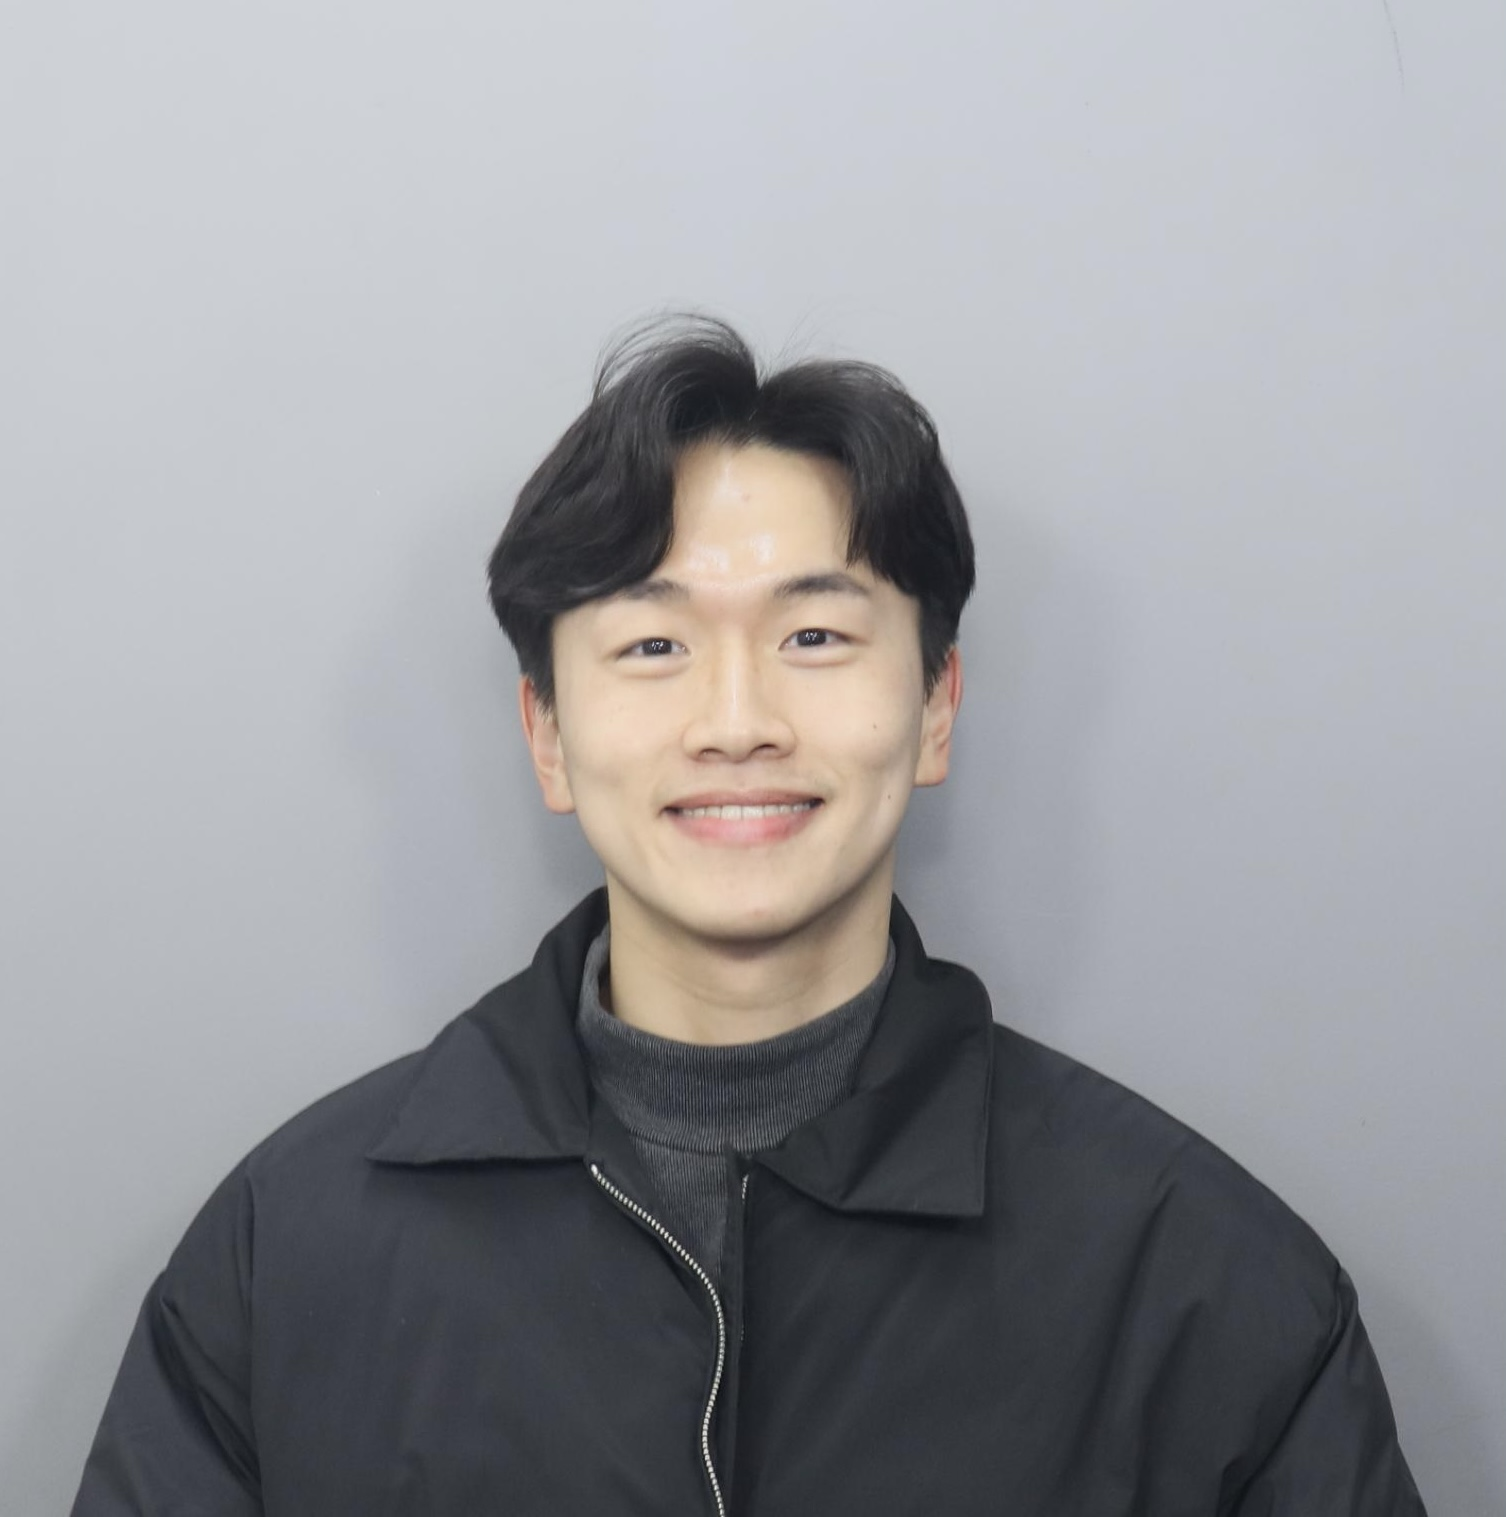
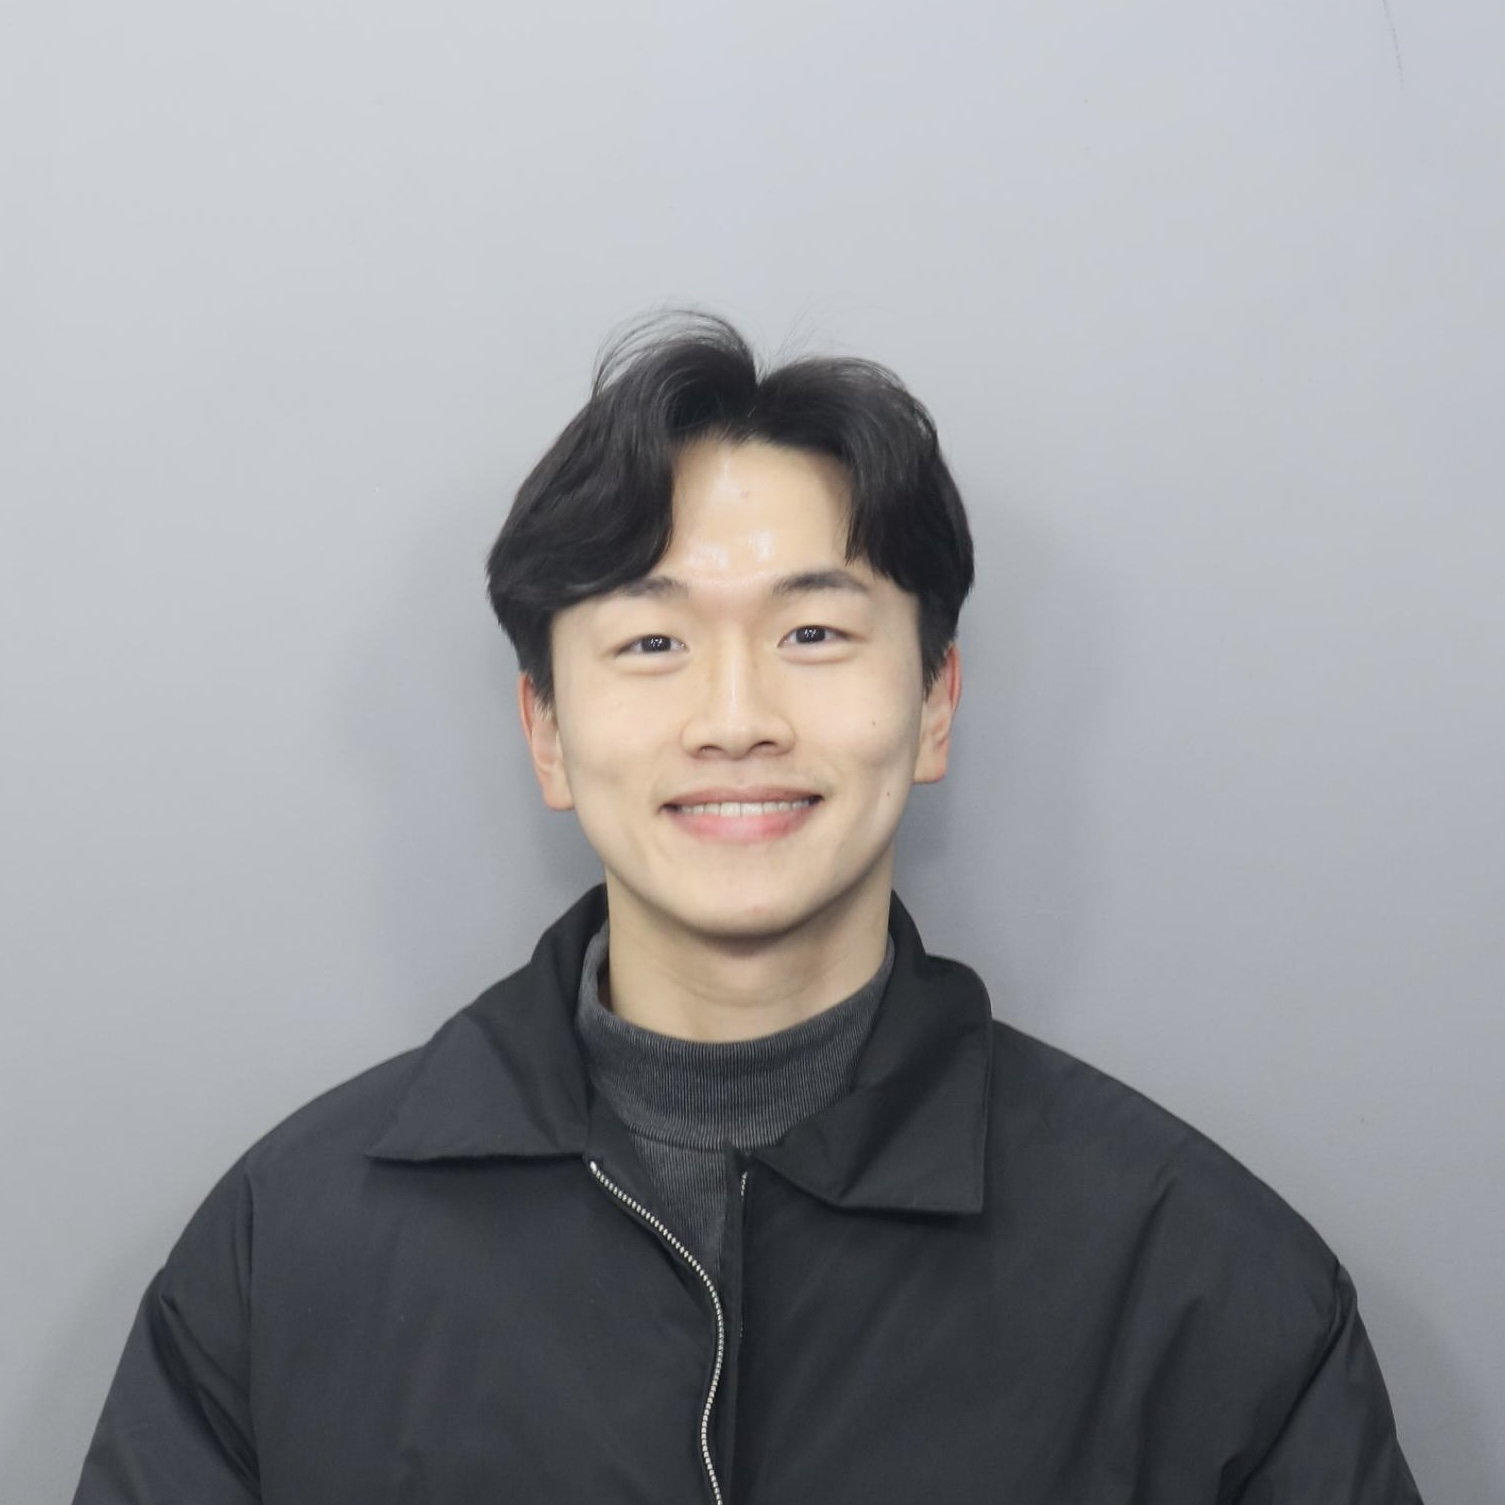
댓글 컴포넌트 변경(utterance -> giscus_ (#24)
* Chore: 프로필 이미지 변경

* Feat: giscus 설정

* Feat: gitcus comment hooks

* Design: giscus 디자인 수정

* Fix: seo 타입 수정

* Docs: 리드미 업데이트

diff --git a/src/hooks/useComment.ts b/src/hooks/useComment.ts
@@ -1,0 +1,60 @@
+import { useEffect, useRef } from 'react'
+
+import { useThemeModeProviderState } from '@/context/ThemeMode.Provider'
+
+import useBlogConfig from './useBlogConfig'
+
+/**
+ * ex: data_repo -> data-repo
+ */
+const underBarToDash = (obj: { [key: string]: string }) =>
+  Object.entries(obj).reduce((acc, [key, value]) => {
+    const newKey = key.replace(/_/g, '-')
+    acc[newKey] = value
+    return acc
+  }, {} as { [key: string]: string })
+
+const useComment = () => {
+  const { isDarkMode } = useThemeModeProviderState()
+  const { giscus: CONFIG } = useBlogConfig()
+  const commentTheme = isDarkMode ? 'dark' : 'light'
+  const $commentElement = useRef<HTMLDivElement>(null)
+  const $iframe = useRef<HTMLIFrameElement | null>(null)
+
+  const setIframeElement = () => {
+    $iframe.current = document.querySelector('iframe.giscus-frame') as HTMLIFrameElement
+  }
+
+  const createScriptElement = () => {
+    const $script: HTMLScriptElement = document.createElement('script')
+    const configWithTheme = { ...CONFIG, data_theme: commentTheme }
+    const attributes = underBarToDash(configWithTheme)
+    Object.entries(attributes).forEach(([key, value]) => {
+      $script.setAttribute(key, value)
+    })
+    $commentElement.current?.appendChild($script)
+    setIframeElement()
+  }
+
+  const setCommentTheme = ($iframe: HTMLIFrameElement) => {
+    // version: utterance
+    // const msg = {
+    //   type: 'set-theme',
+    //   theme: utteranceTheme,
+    // }
+    // iframe.contentWindow?.postMessage(msg, 'https://utteranc.es')
+
+    // version: giscus
+    const msg = { giscus: { setConfig: { theme: commentTheme } } }
+    $iframe.contentWindow?.postMessage(msg, 'https://giscus.app')
+  }
+
+  useEffect(() => {
+    if ($commentElement.current === null) return
+    $iframe.current ? setCommentTheme($iframe.current) : createScriptElement()
+  }, [isDarkMode, $iframe])
+
+  return { $commentElement }
+}
+
+export default useComment

diff --git a/src/types/gatsby.type.ts b/src/types/gatsby.type.ts
@@ -8,7 +8,8 @@ export interface GatsbyImgProps {
   className?: string
 }
 
-export interface ConfigType {
+export interface SEOConfigType {
+  lang?: string
   author: string
   title: string
   siteUrl: string
@@ -16,14 +17,17 @@ export interface ConfigType {
   image: string
   keywords: string[]
   favicon: string
+  seo: {
+    google: string
+    naver: string
+  }
+}
+
+export interface ConfigType extends SEOConfigType {
   social: {
     email: string
     github: string
     til: string
-  }
-  seo: {
-    google: string
-    naver: string
   }
   utterances: {
     src: string
@@ -33,5 +37,20 @@ export interface ConfigType {
     crossorigin: string
     issueTerm: string
     async: string
+  }
+  giscus: {
+    src: string
+    data_repo: string
+    data_repo_id: string
+    data_category: string
+    data_category_id: string
+    data_mapping: string
+    data_strict: string
+    data_reactions_enabled: string
+    data_emit_metadata: string
+    data_input_position: string
+    data_theme: string
+    data_lang: string
+    crossorigin: string
   }
 }

diff --git a/blog-config.js b/blog-config.js
@@ -31,4 +31,20 @@ module.exports = {
     crossorigin: 'anonymous',
     async: 'true',
   },
+  giscus: {
+    src: 'https://giscus.app/client.js',
+    data_repo: 'kimyouknow/kimyouknow.github.io',
+    data_repo_id: 'R_kgDOH5iCbA',
+    data_category: 'General',
+    data_category_id: 'DIC_kwDOH5iCbM4CUKFl',
+    data_mapping: 'og:title',
+    data_strict: '0',
+    data_reactions_enabled: '1',
+    data_emit_metadata: '0',
+    data_input_position: 'top',
+    data_theme: 'preferred_color_scheme',
+    data_lang: 'ko',
+    crossorigin: 'anonymous',
+    async: 'true',
+  },
 }

diff --git a/src/components/SEO/index.tsx b/src/components/SEO/index.tsx
@@ -1,12 +1,8 @@
 import { Helmet } from 'react-helmet'
 
-import { ConfigType } from '@/types/gatsby.type'
+import { SEOConfigType } from '@/types/gatsby.type'
 
-interface SEOProps extends Omit<ConfigType, 'social' | 'utterances'> {
-  lang?: string
-}
-
-const SEO = ({ lang = 'ko', author, title, description, siteUrl, image, keywords, favicon, seo }: SEOProps) => {
+const SEO = ({ lang = 'ko', author, title, description, siteUrl, image, keywords, favicon, seo }: SEOConfigType) => {
   return (
     <Helmet htmlAttributes={{ lang }}>
       <title>{title}</title>

diff --git a/src/hooks/useBlogConfig.ts b/src/hooks/useBlogConfig.ts
@@ -39,6 +39,21 @@ const useBlogConfig = () => {
               issueTerm
               async
             }
+            giscus {
+              src
+              data_repo
+              data_repo_id
+              data_category
+              data_category_id
+              data_mapping
+              data_strict
+              data_reactions_enabled
+              data_emit_metadata
+              data_input_position
+              data_theme
+              data_lang
+              crossorigin
+            }
           }
         }
       }

diff --git a/src/components/PostDetail/PostDetail.style.tsx b/src/components/PostDetail/PostDetail.style.tsx
@@ -136,12 +136,14 @@ export const TableOfContent = styled.aside`
 `
 
 // Footer
-
 export const Footer = styled.div`
   width: var(--main-content-width);
   margin: var(--padding-s) auto;
   border-top: 1px solid var(--color-background-secondary);
   padding-top: var(--padding-s);
+  .giscus-frame {
+    margin-top: var(--padding-s);
+  }
 `
 
 // gatsby-plugin-image 라이브러리에서 제공해주는 GatsbyImage 컴포넌트에는 기본적으로 적용되어있는 인라인 스타일이 존재하는데,

diff --git a/src/components/Comment/index.tsx b/src/components/Comment/index.tsx
@@ -1,9 +1,9 @@
-import useUtterance from '@/hooks/useUtterance'
+import useComment from '@/hooks/useComment'
 
 const Comment = () => {
-  const { utteranceElement } = useUtterance()
+  const { $commentElement } = useComment()
 
-  return <div ref={utteranceElement} />
+  return <div ref={$commentElement} />
 }
 
 export default Comment

diff --git a/README.md b/README.md
@@ -15,7 +15,7 @@
 - [x] : Bio
 - [x] : 다크모드 구현
 - [x] : SEO 설정, site meta
-- [ ] : About 작성하기
+- [ ] : About 페이지
 - [ ] : 리드미 작성
 
 ### 추가
@@ -23,7 +23,8 @@
 - [x] : 반응형 웹
 - [x] : Read Time
 - [x] : Google Analytics
-- [ ] : 반응 및 조회수 표시
+- [x] : 간단한 반응
+- [ ] : 조회수 표시
 - [ ] : 검색 기능
 - [x] : 카테고리 검색
 - [ ] : 시리즈 검색
